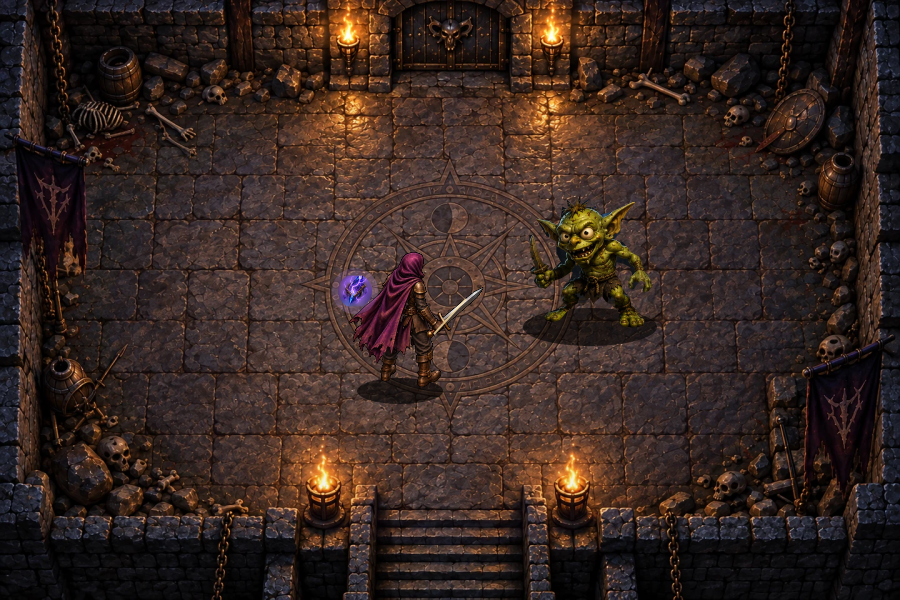
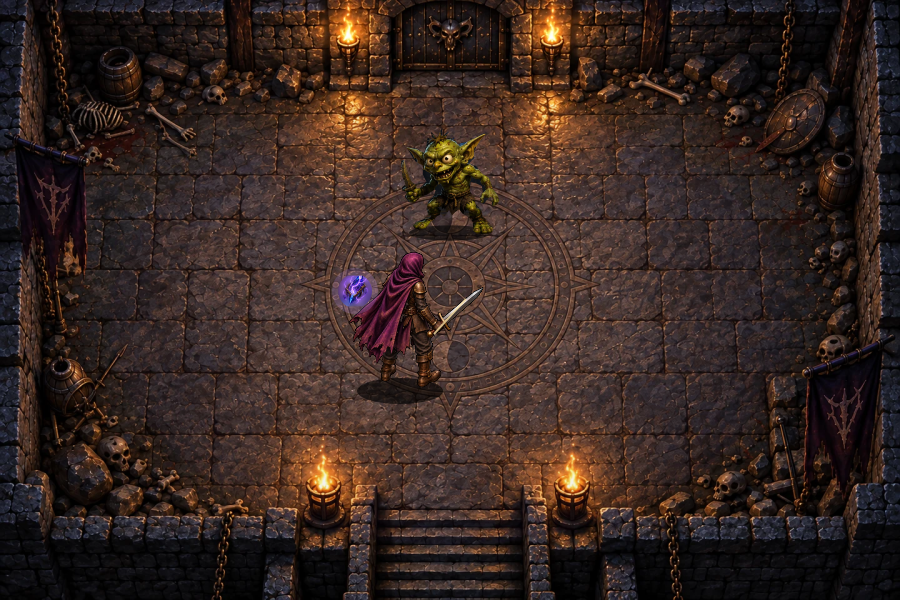
fix: position smaller tier-one monsters at the exit

Changed region(s): [[0.56, 0.33, 0.7467, 0.6], [0.4356, 0.21, 0.56, 0.42]]

diff --git a/frontend/app/dungeon/scene.tsx b/frontend/app/dungeon/scene.tsx
@@ -15,13 +15,13 @@ export type RoomView = {
 };
 export type RoomActions = { approach: () => void; enter: () => void; merchant?: () => void; interact?: () => void };
 export const ENEMY_ART = [
-  { name: "Grave Belle", role: "Zombie", src: "/monsters/zombie-1-grave-belle.webp", width: 1672, height: 941,
+  { name: "Grave Belle", role: "Zombie", src: "/monsters/zombie-1-grave-belle.webp", width: 1672, height: 941, roomHeight: 120,
     crop: "565 30 490 770", outline: "M590 777 L615 691 640 608 674 552 712 498 742 451 751 409 776 378 754 331 713 364 694 405 683 449 662 477 640 477 619 466 618 444 637 387 661 346 700 311 716 272 744 241 694 230 671 201 679 146 716 84 748 55 822 47 863 63 889 103 914 156 919 185 877 204 893 218 919 221 941 273 956 324 974 368 981 416 998 451 1033 474 1039 503 1013 535 1004 512 998 493 983 486 981 517 967 523 956 502 955 478 941 447 932 421 927 464 912 478 916 541 937 599 961 638 978 681 1007 710 1001 755 985 779 936 784 931 772 948 746 956 715 936 680 907 654 874 613 852 583 843 538 817 527 782 571 745 611 707 653 672 694 655 740 659 776 643 788 613 788 Z" },
-  { name: "Gary", role: "Goblin", src: "/monsters/goblin-1-gary.webp", width: 766, height: 431,
+  { name: "Gary", role: "Goblin", src: "/monsters/goblin-1-gary.webp", width: 766, height: 431, roomHeight: 110,
     crop: "202 35 363 390", outline: "M210 158 L221 155 238 211 249 235 266 244 263 253 280 267 281 278 274 294 256 309 236 304 223 286 231 270 215 265 213 253 226 242 214 214 Z M229 110 L265 115 292 130 300 104 304 76 321 85 316 56 337 76 355 42 355 71 380 54 368 79 398 75 410 99 444 91 506 61 510 65 487 91 468 124 468 151 450 168 476 177 498 205 521 218 531 242 535 258 550 275 559 299 549 314 533 320 531 303 539 291 526 285 514 297 504 312 491 306 490 285 501 269 496 248 477 238 457 233 453 266 470 287 474 311 495 334 499 355 520 374 536 396 533 413 507 418 478 417 466 405 464 378 456 366 442 354 427 345 416 330 402 340 391 352 380 332 364 356 351 348 337 355 327 367 314 376 298 397 277 403 258 399 252 388 264 375 288 366 306 349 300 329 308 300 327 280 333 263 315 244 298 229 287 207 287 175 260 160 Z" },
-  { name: "Thud", role: "Orc", src: "/monsters/orc-1-thud.webp", width: 1672, height: 941,
+  { name: "Thud", role: "Orc", src: "/monsters/orc-1-thud.webp", width: 1672, height: 941, roomHeight: 146,
     crop: "482 142 608 630", outline: "M495 426 L511 402 531 382 552 387 574 409 595 452 616 500 626 524 652 520 668 506 679 469 702 431 707 380 736 330 737 303 725 271 748 284 763 248 782 218 799 181 824 151 854 165 878 175 882 185 853 190 850 208 874 230 907 234 918 230 907 257 922 278 965 281 1007 310 1037 350 1051 396 1065 439 1069 475 1061 504 1073 538 1069 578 1053 607 1031 619 1015 609 1032 585 1029 570 1014 591 997 593 1000 569 986 558 980 579 969 566 973 536 990 515 1002 508 994 466 965 429 951 466 955 523 972 568 972 611 984 648 977 693 1002 733 1006 754 991 763 918 761 902 749 913 728 923 694 910 664 896 652 881 610 868 610 855 643 835 629 821 643 809 619 785 611 775 637 760 645 764 678 756 704 732 736 678 742 650 733 655 719 688 699 712 682 710 650 708 616 708 587 721 555 711 539 688 558 675 578 674 599 659 617 647 606 629 597 611 595 603 578 585 566 588 544 602 533 581 509 552 490 521 469 Z" },
-  { name: "Dungeon Lord", role: "Management", src: "/monsters/boss-1-dungeon-lord.webp", width: 1672, height: 941,
+  { name: "Dungeon Lord", role: "Management", src: "/monsters/boss-1-dungeon-lord.webp", width: 1672, height: 941, roomHeight: 178,
     crop: "437 25 790 905", outline: "M648 856 L672 823 690 792 693 745 700 679 698 616 671 555 654 488 623 442 573 428 539 390 510 345 487 306 459 272 457 237 501 212 528 217 563 201 588 212 626 240 655 230 677 216 707 233 735 216 758 208 761 188 752 156 757 101 776 66 814 40 853 35 880 60 886 90 910 104 901 119 927 137 907 158 914 176 897 196 873 206 883 219 919 216 939 178 956 213 980 226 999 206 998 240 1043 245 1019 261 1026 287 1047 311 1065 335 1093 347 1107 332 1117 301 1137 286 1149 294 1143 322 1172 322 1197 337 1203 350 1191 372 1156 380 1124 376 1093 387 1057 382 1022 366 1006 420 1019 478 1029 537 1042 586 1056 661 1058 705 1034 690 1013 645 996 619 986 700 978 756 979 804 1008 833 1005 881 993 912 961 923 929 905 912 869 916 833 902 793 874 732 850 673 827 645 810 687 793 739 781 792 789 827 778 858 735 869 685 877 656 870 Z" },
 ] as const;
 
@@ -45,9 +45,21 @@ export function AvatarSprite() {
 }
 
 const ENTRY = { x: 420, y: 496 }, STAGING = { x: 400, y: 391 }, DOOR = { x: 450, y: 92 };
+const GUARD = { x: DOOR.x, y: 236 }, DOOR_HALF_WIDTH = 65;
+function inDoorLane(point: Point) { return Math.abs(point.x - DOOR.x) < DOOR_HALF_WIDTH; }
 export function clampRoomPoint(point: Point, cleared: boolean): Point {
-  const door = cleared && Math.abs(point.x - 450) < 65 && point.y < 190;
-  return { x: Math.max(170, Math.min(733, point.x)), y: Math.max(door ? 92 : 194, Math.min(505, point.y)) };
+  const door = cleared && inDoorLane(point) && point.y < 190;
+  // Stop in front of the living guard when walking toward the north door.
+  const northEdge = !cleared && inDoorLane(point) ? GUARD.y + 90 : door ? DOOR.y : 194;
+  return { x: Math.max(170, Math.min(733, point.x)), y: Math.max(northEdge, Math.min(505, point.y)) };
+}
+
+export function roomFloorTarget(point: Point, cleared: boolean, enemy: MonsterType): { point: Point; destination?: "enemy" | "door" } {
+  const door = inDoorLane(point) && point.y <= 130;
+  const guard = Math.abs(point.x - GUARD.x) < 90 && point.y >= GUARD.y - ENEMY_ART[enemy].roomHeight - 15 && point.y <= GUARD.y + 25;
+  if (!cleared && (door || guard)) return { point: STAGING, destination: "enemy" };
+  if (cleared && door) return { point: DOOR, destination: "door" };
+  return { point };
 }
 
 /** Mount with a confirmed run/room key. Recovery never trusts saved coordinates. */
@@ -61,7 +73,12 @@ export function DungeonScene({ view, actions }: { view: RoomView; actions: RoomA
   const relic = getRelicDefinition(view.relic);
   const cleared = view.enemyHp === 0;
   const relicClip = useId();
-  const spriteHeight = [185,138,180,225][view.enemy];
+  // First Descent uses tier 1 art throughout. Keep a modest base scale so later
+  // tiers can grow without making early zombies tower over the adventurer.
+  const art = ENEMY_ART[view.enemy], spriteHeight = art.roomHeight;
+  const [, , cropWidth, cropHeight] = art.crop.split(" ").map(Number);
+  const spriteWidth = spriteHeight * cropWidth / cropHeight;
+  const impact = { x: GUARD.x, y: GUARD.y - spriteHeight * .55 };
 
   useEffect(() => {
     const stop = () => { if (timer.current) clearTimeout(timer.current); timer.current = null; setWalking(false); };
@@ -82,9 +99,9 @@ export function DungeonScene({ view, actions }: { view: RoomView; actions: RoomA
       timer.current = null; setWalking(false);
       const current = latest.current;
       if (current.view.pending) return;
-      if (current.view.phase === "explore" && (destination === "enemy" || Math.hypot(next.x-588,next.y-315) < 170)) {
+      if (current.view.phase === "explore" && (destination === "enemy" || Math.hypot(next.x-GUARD.x,next.y-GUARD.y) < 125)) {
         point.current = STAGING; setPosition(STAGING); current.actions.approach();
-      } else if (current.view.phase === "recovery" && (destination === "door" || (next.y <= 130 && Math.abs(next.x-450) < 65))) current.actions.enter();
+      } else if (current.view.phase === "recovery" && (destination === "door" || (next.y <= 130 && inDoorLane(next)))) current.actions.enter();
       else if (destination === "merchant") current.actions.merchant?.();
     },duration);
   }
@@ -103,9 +120,8 @@ export function DungeonScene({ view, actions }: { view: RoomView; actions: RoomA
     const matrix = svg.current?.getScreenCTM(); if (!matrix) return;
     const p = new DOMPoint(event.clientX,event.clientY).matrixTransform(matrix.inverse());
     svg.current?.focus({preventScroll:true});
-    if (!cleared && Math.hypot(p.x-590,p.y-270) < 100) moveTo(STAGING,"enemy");
-    else if (cleared && Math.hypot(p.x-450,p.y-75) < 95) moveTo(DOOR,"door");
-    else moveTo(p);
+    const target = roomFloorTarget(p,cleared,view.enemy);
+    moveTo(target.point,target.destination);
   }
 
   return <div className={`dungeon-scene-wrap ${view.phase} ${view.room === 10 ? "boss-room" : ""}`} data-room-scene data-room={view.room}>
@@ -114,11 +130,11 @@ export function DungeonScene({ view, actions }: { view: RoomView; actions: RoomA
       <image href="/dungeon/stone-room.webp" width="900" height="600" />
       <ellipse className="dungeon-room-tint" cx="450" cy="320" rx="340" ry="225" />
       {cleared && <g className="dungeon-door-open"><path d="M407 10 Q450 -10 493 10 L493 77 407 77Z" fill="#030205" /><path d="M420 76 L480 76 523 230 377 230Z" fill="#eac170" opacity=".12" /><text x="450" y="115" textAnchor="middle">{view.room === 10 ? "VICTORY" : "NEXT ROOM ↑"}</text></g>}
-      {!cleared && <g className={`dungeon-enemy ${view.cue && view.cue !== "potion" ? "is-hit" : ""}`} key={`enemy-${view.cueId}`}>
-        <ellipse cx="590" cy="327" rx="67" ry="19" fill="#000" opacity=".62" />
-        <svg x="498" y={330-spriteHeight} width="185" height={spriteHeight} overflow="visible"><EnemySprite type={view.enemy} /></svg>
+      {!cleared && <g className={`dungeon-enemy ${view.cue && view.cue !== "potion" ? "is-hit" : ""}`} style={{transformOrigin:`${GUARD.x}px ${GUARD.y}px`}} key={`enemy-${view.cueId}`}>
+        <ellipse cx={GUARD.x} cy={GUARD.y-3} rx={spriteWidth*.4} ry={spriteHeight*.07} fill="#000" opacity=".62" />
+        <svg x={GUARD.x-spriteWidth/2} y={GUARD.y-spriteHeight} width={spriteWidth} height={spriteHeight} overflow="visible"><EnemySprite type={view.enemy} /></svg>
       </g>}
-      {cleared && <g aria-hidden="true"><ellipse cx="590" cy="327" rx="54" ry="16" fill="#c59742" opacity=".2" /><text x="590" y="325" textAnchor="middle" fill="#eac170" fontSize="30">✦</text></g>}
+      {cleared && <g aria-hidden="true"><ellipse cx={GUARD.x} cy={GUARD.y-3} rx="36" ry="10" fill="#c59742" opacity=".2" /><text x={GUARD.x} y={GUARD.y-5} textAnchor="middle" fill="#eac170" fontSize="30">✦</text></g>}
       {(view.room === 5 || view.room === 9) && cleared && <g aria-hidden="true" className="dungeon-camp-prop"><circle cx="252" cy="309" r="34" fill="#f5ab42" opacity=".17" />{view.room === 9 ? <g><ellipse cx="252" cy="321" rx="23" ry="8" fill="#30251e" stroke="#89725b" strokeWidth="5" /><path d="M237 317 Q230 302 246 287 Q243 300 253 275 Q274 300 265 316Z" fill="#b65822" /><path d="M244 318 Q239 303 253 288 Q252 301 262 305 L259 319Z" fill="#edab44" /><path d="M249 319 Q245 309 254 302 L258 318Z" fill="#f8dd8c" /></g> : <image href="/assets/loot/potion-v1.webp" x="230" y="282" width="44" height="44" />}<text x="252" y="351" textAnchor="middle" fill="#e9c78a" fontSize="13">{view.room === 9 ? "CAMP" : "SUPPLIES"}</text></g>}
       <g className="dungeon-actor-position" style={{transform:`translate(${position.x}px,${position.y}px)`}} data-avatar-position={`${position.x},${position.y}`}>
         <ellipse cx="0" cy="0" rx="43" ry="13" fill="#000" opacity=".64" />
@@ -136,8 +152,8 @@ export function DungeonScene({ view, actions }: { view: RoomView; actions: RoomA
         {view.cue && view.incoming > 0 && <text key={`reply-${view.cueId}`} x="-36" y="-150" className="dungeon-damage incoming">−{view.incoming}</text>}
       </g>
       {(view.cue === "storm" || view.cue === "critical" || view.cue === "attack") && <g key={`fx-${view.cueId}`} className={`dungeon-impact ${view.cue}`}>
-        {view.cue === "storm" ? <path d={`M${position.x-45} ${position.y-100} L462 304 489 315 514 265 544 277 586 232`} fill="none" stroke="#dbb3ff" strokeWidth="5" /> : <path d="M553 267 Q602 244 631 194" stroke="#ffe5ac" strokeWidth="6" fill="none" />}
-        <text x="590" y="137" textAnchor="middle" className="dungeon-damage">{view.cue === "critical" ? "CRIT " : ""}{view.damage}</text>
+        {view.cue === "storm" ? <path d={`M${position.x-45} ${position.y-100} L${impact.x-58} ${impact.y+55} ${impact.x-66} ${impact.y+38} ${impact.x-19} ${impact.y+22} ${impact.x-31} ${impact.y+8} ${impact.x} ${impact.y}`} fill="none" stroke="#dbb3ff" strokeWidth="5" /> : <path d={`M${impact.x-32} ${impact.y+32} Q${impact.x+8} ${impact.y+8} ${impact.x+37} ${impact.y-34}`} stroke="#ffe5ac" strokeWidth="6" fill="none" />}
+        <text x={GUARD.x} y={GUARD.y-spriteHeight-12} textAnchor="middle" className="dungeon-damage">{view.cue === "critical" ? "CRIT " : ""}{view.damage}</text>
       </g>}
     </svg>
     <div className="dungeon-floor-controls">

diff --git a/frontend/tests/dungeon-scene.test.ts b/frontend/tests/dungeon-scene.test.ts
@@ -1,0 +1,36 @@
+import assert from "node:assert/strict";
+import test from "node:test";
+import { clampRoomPoint, roomFloorTarget } from "../app/dungeon/scene";
+
+test("the same north-door tap approaches its living guard and enters only after clearing", () => {
+  const door = { x: 450, y: 65 };
+  for (const enemy of [0, 1, 2, 3] as const) {
+    const guarded = roomFloorTarget(door, false, enemy);
+    assert.equal(guarded.destination, "enemy");
+    assert.ok(guarded.point.y > 300, "approach stops on the player's side of the guard");
+    const cleared = roomFloorTarget(door, true, enemy);
+    assert.equal(cleared.destination, "door");
+    assert.ok(cleared.point.y < 130);
+  }
+});
+
+test("floor taps find every centered monster and leave ordinary floor walkable", () => {
+  for (const enemy of [0, 1, 2, 3] as const) {
+    assert.equal(roomFloorTarget({ x: 450, y: 180 }, false, enemy).destination, "enemy");
+    assert.equal(roomFloorTarget({ x: 450, y: 180 }, true, enemy).destination, undefined);
+    for (const floor of [{ x: 300, y: 435 }, { x: 590, y: 270 }]) {
+      assert.deepEqual(roomFloorTarget(floor, false, enemy), { point: floor });
+    }
+  }
+});
+
+test("walking cannot reach the guarded doorway but the cleared exit is reachable", () => {
+  for (const x of [400, 450, 500]) {
+    const blocked = clampRoomPoint({ x, y: 92 }, false);
+    assert.ok(blocked.y > 300);
+    assert.deepEqual(clampRoomPoint({ x, y: 92 }, true), { x, y: 92 });
+  }
+  assert.deepEqual(clampRoomPoint({ x: 300, y: 435 }, false), { x: 300, y: 435 });
+  assert.deepEqual(clampRoomPoint({ x: 0, y: 0 }, false), { x: 170, y: 194 });
+  assert.deepEqual(clampRoomPoint({ x: 900, y: 600 }, true), { x: 733, y: 505 });
+});

diff --git a/frontend/app/dungeon/scene.css b/frontend/app/dungeon/scene.css
@@ -12,7 +12,7 @@
 .dungeon-avatar-art { overflow:visible; }
 .dungeon-relic { animation:dungeon-float 3s ease-in-out infinite; }
 .dungeon-relic.is-active { animation:dungeon-relic-pulse .65s ease-out; }
-.dungeon-enemy { transform-origin:590px 320px; animation:dungeon-breathe 4.3s ease-in-out infinite; }
+.dungeon-enemy { animation:dungeon-breathe 4.3s ease-in-out infinite; }
 .dungeon-enemy.is-hit { animation:dungeon-enemy-hit .55s ease-out; }
 .dungeon-door-open text { fill:#edd2a4; font:600 12px var(--font-geist-sans),sans-serif; letter-spacing:2px; }
 .dungeon-damage { fill:#fce6c5; stroke:#1b101f; stroke-width:3px; paint-order:stroke; font:700 32px Georgia,serif; animation:dungeon-number .95s ease-out forwards; }

diff --git a/docs/phase-1-status.md b/docs/phase-1-status.md
@@ -20,6 +20,10 @@ The subsequent approval authorizes the small matching asset set and C–F.
 The selected base avatar is now androgynous: less broad shoulders, neutral
 proportions, practical clothing and a hidden face. Same plum cloak/art style.
 
+**Room composition correction:** the monster now guards the north doorway.
+Tier 1 actors are smaller, especially Grave Belle. The original monster images
+and the androgynous adventurer remain unchanged.
+
 ## Latest implementation checkpoint — C–E implemented locally, F open
 
 The new playable slice is **`/play`**, linked from the mode-selection home as
@@ -75,6 +79,12 @@ No publication, remote CI run, merge or contract transaction has occurred.
 - Original Gary, Grave Belle, Thud and Dungeon Lord images remain untouched.
   Runtime SVG silhouette clips reuse those same files as room actors. Original
   full portraits, relics, merchant, loot and logo remain in the HUD.
+- Monsters share an anchor directly on the north-door path. Shadows, tap targets,
+  attack effects and dropped loot use that anchor. A guarded-door tap approaches
+  the monster; walking into the door lane stops in front of it until victory.
+  Tier 1 sprite heights are 120/110/146/178 scene units (zombie/goblin/orc/boss).
+  These are modest baselines, not a new tier system: this ten-room slice only
+  uses tier 1. Future tiers need their own art crops and room-fit checks.
 - Small ImageGen set: one stone room (414 KiB) and one androgynous base avatar
   (27 KiB), WebP encoded. Source prompts and selected outputs are recorded in
   `phase-1-evidence/production-assets.md`. No flat replacement monster designs.
@@ -90,15 +100,19 @@ No publication, remote CI run, merge or contract transaction has occurred.
 
 ### Milestone F — verification status and remaining gate
 
-- Frontend tests: **88 passed, 0 failed** (including new rules/persistence,
+- Frontend tests: **91 passed, 0 failed** (including new rules/persistence,
   classic golden traces, audio lifecycle and existing wallet/snapshot guards).
+  Three added scene tests cover guarded/open door taps, centered-monster targets
+  and walking bounds after the room composition correction.
 - Lint: **0 errors, 14 pre-existing warnings**. Explicit TypeScript check passed.
 - Foundry formatting and size build passed; **143 contract tests passed** in
   13 suites. Optional signature-cache write warning from the sandbox only.
 - Production builds passed for all three existing CI configurations (RISE
   legacy, Somnia standard, Somnia session keys), with `/play` generated and
   `/concept` remaining production-404. Results are recorded in
-  `phase-1-evidence/verification.md`; no remote CI is claimed.
+  `phase-1-evidence/verification.md`; no remote CI is claimed. Somnia standard
+  was rerun successfully after the door-layout correction; the other two and
+  contract checks are from the preceding implementation checkpoint.
 - Added five Playwright scenarios (15 device/project cases): wallet-free start,
   keyboard/rapid input/reload, full ten-room UI run, responsive/reduced motion,
   malformed/blocked storage. Suite discovery: **150 tests in 10 files**.

diff --git a/docs/phase-1-evidence/verification.md b/docs/phase-1-evidence/verification.md
@@ -1,6 +1,22 @@
 # First Descent verification — 2026-09-15
 
-## Executed checks
+## Door-guard layout follow-up — 2026-09-15
+
+- Moved all four tier 1 actors to the north-door path; reduced their sprite
+  heights to 120/110/146/178 scene units. Grave Belle was previously 185 tall.
+- Kept original raster files and silhouette clips. Repositioned shadows, loot,
+  interaction targets and combat effects together with the guard.
+- Frontend suite: **91 passed, 0 failed**. Three new tests exercise the guarded
+  and open doorway, centered-monster floor targets and movement bounds.
+- TypeScript passed. ESLint: **0 errors, 14 pre-existing warnings**.
+- Somnia standard production build passed again after this change. The other
+  two matrix configurations and contract suite were last run at the checkpoint
+  below; this presentation-only follow-up did not modify chain configuration.
+- Regenerated and inspected all four `descent-scene-*.png` illustrations. They
+  show the smaller actors in front of the exit and remain static SVG exports,
+  not browser screenshots. Browser/device verification is still unresolved.
+
+## Previous implementation checkpoint — a5f7e64
 
 | Check | Actual result |
 | --- | --- |
@@ -89,6 +105,7 @@ Implementation:
 Tests, tools and documentation:
 
 - `frontend/tests/descent.test.ts`, `game-audio.test.ts`
+- `frontend/tests/dungeon-scene.test.ts` (door-layout follow-up)
 - `frontend/tests/helpers/descent-policy.ts`, `tests/e2e/descent.spec.ts`
 - `frontend/scripts/{simulate-descent.ts,render-descent-scene.tsx}`
 - `README.md`, `FIRST_DESCENT.md`

diff --git a/FIRST_DESCENT.md b/FIRST_DESCENT.md
@@ -13,6 +13,8 @@ From `frontend/`, install existing dependencies if needed (`npm ci`) and run
 1. Choose Warden, Duelist or Stormcaller. No wallet/account/payment.
 2. Click/tap the floor, or focus it and use arrows/WASD. E/Enter approaches the
    enemy or walks to the door. The large approach/door controls are equivalent.
+   The monster guards the north doorway. Tapping that door approaches its guard
+   while it is alive; after victory the same doorway leads to the next room.
 3. Read the next intention. Attack is narrow with crits; Storm varies from zero
    to a higher maximum and bypasses a guard; Potion heals 25 before a half reply.
    Use buttons or desktop keys 1/2/3. Two combat potions per ordinary fight,
